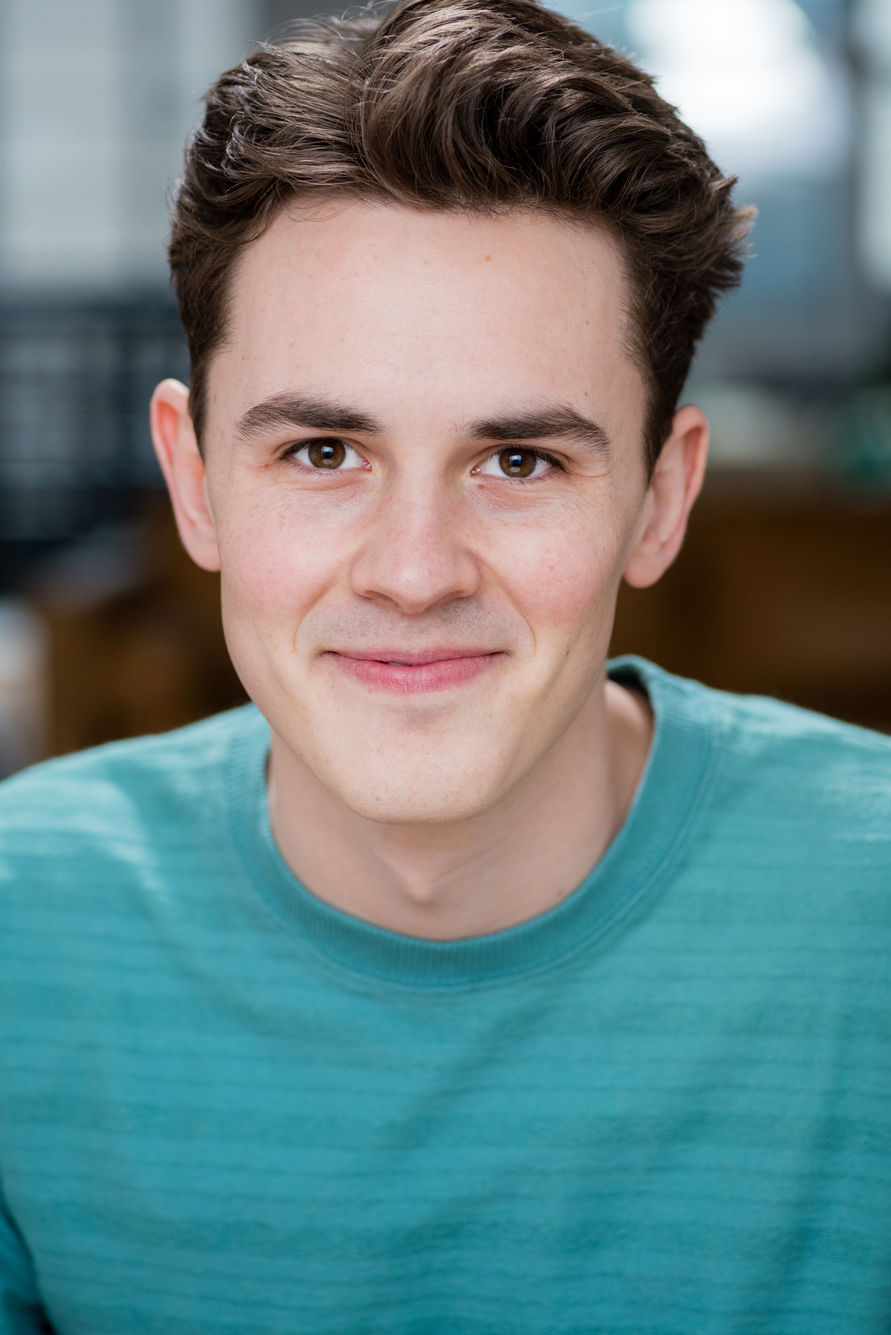
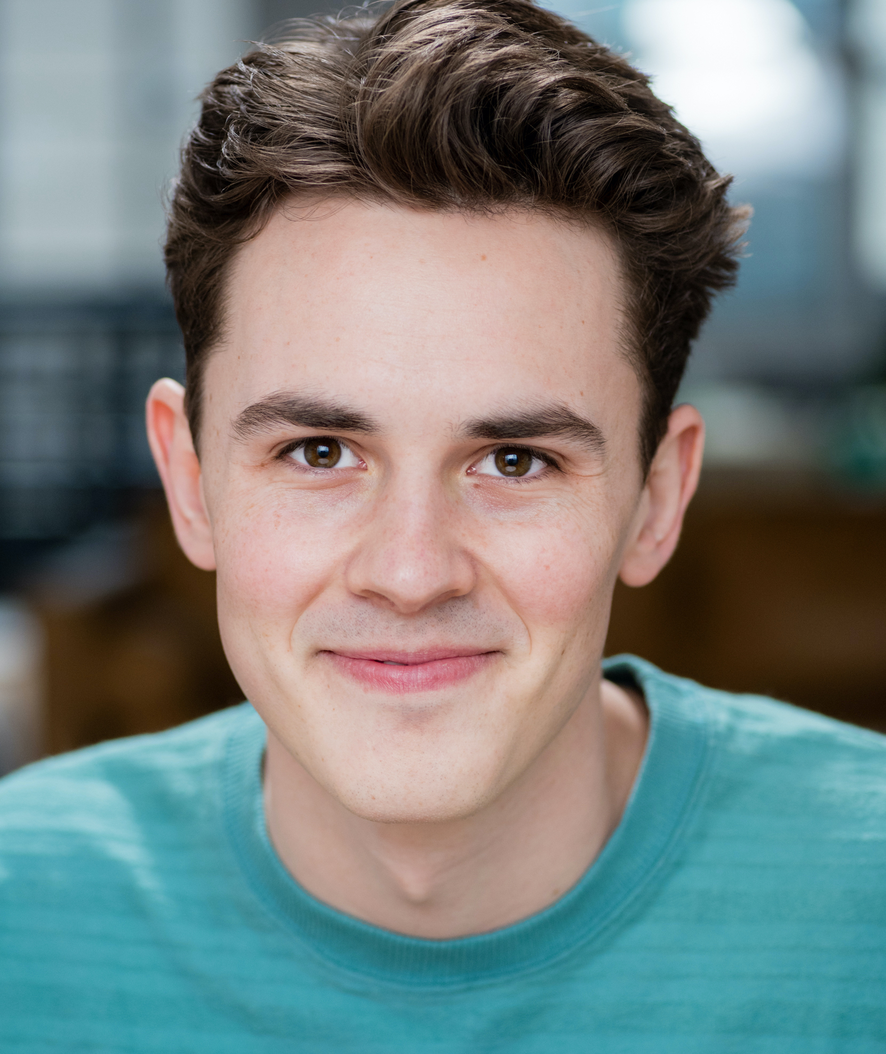
final changes

diff --git a/src/pages/About/index.jsx b/src/pages/About/index.jsx
@@ -2,10 +2,11 @@ import React, { useState, useEffect } from "react";
 import styled from "styled-components";
 import { MainContainer, Title } from "../../components/StyledComponents";
 import { Col, Row, Container, Image } from "react-bootstrap";
-import ColImg from "../../assets/images/colinImg.jpg";
+import ColImg from "../../assets/images/colin_about_page.jpg";
 import SocialNavGroup from "../../components/NavComponent/SocialNavGroup";
 import { MainTheme } from "../../styles/colors";
 import {
+  desktopOnly,
   phoneOnly,
   phoneWidthMax,
   tabletAndPhoneOnly,
@@ -15,7 +16,7 @@ import { useWindowSize } from "../../util/hooks";
 import { HiOutlineMail, HiOutlinePhone } from "react-icons/hi";
 import { motion } from "framer-motion";
 import { INSTAGRAM_LINK, TIKTOK_LINK } from "../../util/constants";
-import ColImg3 from "../../assets/images/about_colin_transparent.png";
+import ColImg3 from "../../assets/images/colin_about_page.jpg";
 import audioFile from "../../assets/sounds/Oh-no.mov";
 
 const MainImage = styled(Image)`
@@ -42,7 +43,6 @@ const MainText = styled.p`
   margin: 0;
   color: black;
   font-size: 1em;
-  padding-top: 50px;
   z-index: -1;
   background-color: white;
   ${phoneOnly(`
@@ -52,13 +52,17 @@ const MainText = styled.p`
 `;
 
 const MainImg = styled(motion.img)`
-  max-height: 700px;
+  max-height: 500px;
   position: fixed;
   margin: auto;
   margin-bottom: 0px;
   display: block;
+  ${desktopOnly(`
+        margin-top: 50px;
+        margin-left: 50px;
+  `)}
   ${tabletAndPhoneOnly(`
-  position: relative;
+        position: relative;
         height: 300px;
     `)}
 `;
@@ -130,15 +134,14 @@ function About() {
                   fontWeight: "bold",
                 }}
               >
-                {" "}
-                About{" "}
+                About
               </h2>
               <p>
-                Colin Dowda is a 24-year-old comedian, writer, and actor in
-                Chicago, IL. He directed and starred in musicals throughout
-                college at the University of Wisconsin-Madison, then entered the
-                world of comedy through stand-up. He developed a unique style
-                full of music and props.
+                Colin Dowda is a 24-year-old actor, writer, and comedian in
+                Chicago, IL. He wrote, directed, and starred in musicals
+                throughout college at the University of Wisconsin-Madison, then
+                entered the world of comedy through stand-up. He developed a
+                unique style full of music and props.
               </p>
               Now, he trains at
               <a href="https://www.secondcity.com/">
@@ -155,13 +158,13 @@ function About() {
               <a href={TIKTOK_LINK}>TikTok</a>.
               <br />
               <br />
-              He’s obsessed with reading, movies, music, and silliness. Some of
+              He’s obsessed with books, movies, music, and silliness. Some of
               his heroes are Judd Apatow, Seth Rogen, Kid Cudi, Conan O’Brien,
               Miley Cyrus, Cecily Strong, Maya Rudolph, Bill Hader, Andy
               Samberg, and Jim Carrey. His favorite snacks are Pop Tarts and
-              fresh brownies. He also likes to run, and is very bad at sports
-              that require his hands. He is going to make some great movies one
-              day and he hopes he makes you smile.
+              fresh brownies, he likes to run, and he’s very bad at sports that
+              require his hands. He is going to make some great movies one day
+              and he hopes he makes you smile.
             </MainText>
             <LinkGroup>
               <HiOutlineMail style={{ margin: 10, marginLeft: 0 }} />

diff --git a/src/pages/Blog/BlogTile/index.jsx b/src/pages/Blog/BlogTile/index.jsx
@@ -13,8 +13,9 @@ import { FaTrash, FaPencilAlt } from "react-icons/fa";
 import { Editor } from "@tinymce/tinymce-react";
 import { UserContext } from "../../../providers/UserProvider";
 import { phoneOnly } from "../../../util/breakpoints";
+import { motion } from "framer-motion";
 
-const BlogTitle = styled.h1`
+const BlogTitle = styled.h2`
   color: ${MainTheme.orange};
   text-align: left;
   font-weight: bold;
@@ -108,45 +109,47 @@ function BlogTile(props) {
   if (!editPost) {
     return (
       <MobileContainer>
-        <Row className="justify-content-left">
-          <Col xs="auto">
-            <Link to={`/blog/${post.id}`}>
-              <BlogTitle>{post.title}</BlogTitle>
-            </Link>
-          </Col>
-          {user && (
-            <Col xs="auto" style={{ marginTop: 15 }}>
-              <TrashIcon
-                onClick={() => throwPostAway(post.id)}
-                style={{ marginLeft: 10 }}
-              />
-              <PencilIcon
-                onClick={() => toggleEdit(true)}
-                style={{ marginLeft: 10 }}
-              />
+        <motion.div
+          animate={{
+            opacity: [0.1, 1],
+          }}
+          transition={{ duration: 0.5 }}
+        >
+          <Row className="justify-content-left">
+            <Col xs="auto">
+              <Link to={`/blog/${post.id}`}>
+                <BlogTitle>{post.title}</BlogTitle>
+              </Link>
             </Col>
-          )}
-        </Row>
-        <Row>
-          <Col xs="auto">
-            <p>
-              <strong>{post.timeStamp}</strong>
-            </p>
-          </Col>
-          <Col xs="auto">
-            <p>
-              <strong>Views:</strong> {post.viewCount}
-            </p>
-          </Col>
-        </Row>
-        <Row>
-          <Col md="auto">
-            <MainTile
-              dangerouslySetInnerHTML={{ __html: post.body }}
-            ></MainTile>
-          </Col>
-        </Row>
-        <hr />
+            {user && (
+              <Col xs="auto" style={{ marginTop: 15 }}>
+                <TrashIcon
+                  onClick={() => throwPostAway(post.id)}
+                  style={{ marginLeft: 10 }}
+                />
+                <PencilIcon
+                  onClick={() => toggleEdit(true)}
+                  style={{ marginLeft: 10 }}
+                />
+              </Col>
+            )}
+          </Row>
+          <Row>
+            <Col xs="auto">
+              <p>
+                <strong>{post.timeStamp}</strong>
+              </p>
+            </Col>
+          </Row>
+          <Row>
+            <Col md="auto">
+              <MainTile
+                dangerouslySetInnerHTML={{ __html: post.body }}
+              ></MainTile>
+            </Col>
+          </Row>
+          <hr />
+        </motion.div>
       </MobileContainer>
     );
   } else {

diff --git a/src/pages/Home/MainHeader/index.jsx b/src/pages/Home/MainHeader/index.jsx
@@ -178,7 +178,7 @@ function MainHeader(props) {
                 animate={{ x: [400, 0] }}
                 transition={{ duration: 0.5 }}
               >
-                Comedian, Writer, Actor
+                Actor, Writer, Comedian
               </SubTitle>
             </Col>
           </Row>
